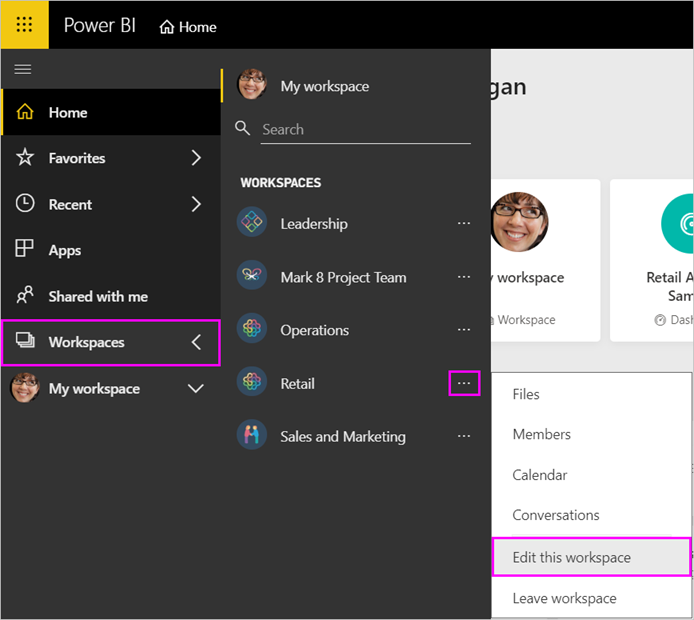
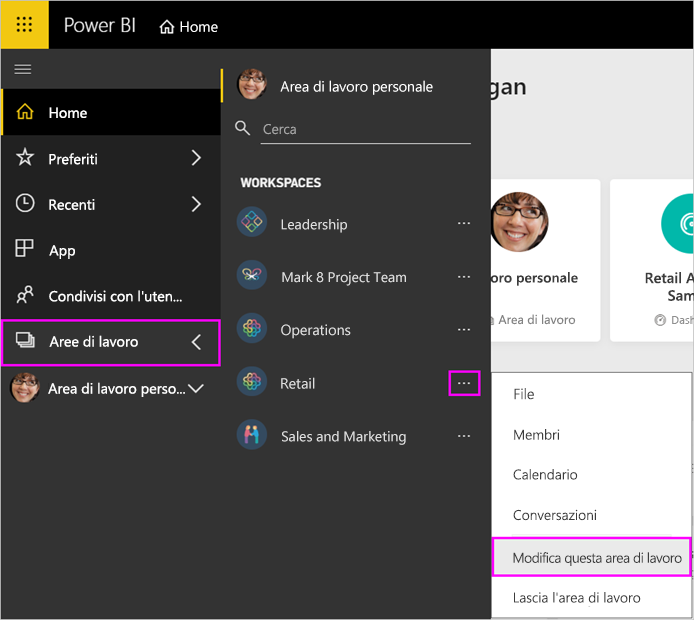
commit translated contents

diff --git a/powerbi-docs/paginated-reports/page-view.md b/powerbi-docs/paginated-reports/page-view.md
@@ -1,0 +1,62 @@
+---
+title: Impostare le visualizzazioni per i report impaginati - Power BI
+description: In questo articolo vengono illustrate le diverse visualizzazioni disponibili per i report impaginati nel servizio Power BI.
+author: maggiesMSFT
+ms.author: maggies
+ms.reviewer: ''
+ms.service: powerbi
+ms.subservice: ''
+ms.topic: conceptual
+ms.date: 05/14/2020
+ms.openlocfilehash: 3816cfe4e1b61b9445e16d7c322c5ba19aa2bc3d
+ms.sourcegitcommit: 21b06e49056c2f69a363d3a19337374baa84c83f
+ms.translationtype: HT
+ms.contentlocale: it-IT
+ms.lasthandoff: 05/15/2020
+ms.locfileid: "83407933"
+---
+# <a name="set-report-views-for-paginated-reports-in-the-power-bi-service"></a>Impostare le visualizzazioni per i report impaginati nel servizio Power BI
+
+Quando si esegue il rendering di un report impaginato nel servizio Power BI, la visualizzazione predefinita è basata su HTML e interattiva. Un'altra visualizzazione report per i formati di pagina fissa, ad esempio PDF, è la nuova opzione Visualizzazione pagina.
+
+**Visualizzazione interattiva predefinita**
+
+![Visualizzazione predefinita](media/page-view/power-bi-paginated-default-view.png)
+
+**Visualizzazione pagina**
+
+![Visualizzazione pagina](media/page-view/power-bi-paginated-page-view.png)
+
+In Visualizzazione pagina il report di cui viene eseguito il rendering è diverso rispetto alla visualizzazione predefinita. Alcune proprietà e concetti nei report impaginati si applicano solo alle pagine fisse. La visualizzazione è simile a quella di un report stampato o esportato. È comunque possibile modificare alcuni elementi, come i valori dei parametri, ma non sono disponibili altre funzionalità interattive, ad esempio l'ordinamento delle colonne e gli interruttori.
+
+Visualizzazione pagina supporta tutte le funzionalità supportate dal visualizzatore PDF del browser, ad esempio Zoom avanti, Zoom indietro e Adatta alla pagina.
+
+## <a name="switch-to-page-view"></a>Passare a Visualizzazione pagina
+
+Quando si apre un report impaginato, per impostazione predefinita ne viene eseguito il rendering in visualizzazione interattiva. Se il report include parametri, selezionare i parametri, quindi visualizzare il report.
+
+1. Selezionare **Visualizza** sulla barra degli strumenti > **Visualizzazione pagina**.
+
+    ![Passare a Visualizzazione pagina](media/page-view/power-bi-paginated-page-view-dropdown.png)
+
+2. Per modificare le impostazioni della visualizzazione pagina, scegliere **Impostazioni pagina** dal menu **Visualizza** sulla barra degli strumenti. 
+
+    ![Selezionare Impostazioni pagina](media/page-view/power-bi-paginated-page-settings-dropdown.png)
+    
+    La finestra di dialogo **Impostazioni pagina** contiene opzioni per impostare **Dimensioni pagina** e **Orientamento** per la visualizzazione pagina. Dopo aver applicato le impostazioni della pagina, le stesse opzioni vengono applicate quando si stampa la pagina in un secondo momento.
+   
+    ![Finestra di dialogo Impostazioni pagina](media/page-view/power-bi-paginated-page-settings-dialog.png)
+
+3. Per tornare alla visualizzazione interattiva, selezionare **Impostazione predefinita** nella casella a discesa **Visualizza**.
+
+## <a name="browser-support"></a>Supporto browser
+
+Visualizzazione pagina è supportata nei browser Google Chrome e Microsoft Edge. Assicurarsi che la visualizzazione di file PDF nel browser sia abilitata. Si tratta dell'impostazione predefinita per questi browser.
+
+Visualizzazione pagina non è supportata in Internet Explorer e in Safari, quindi l'opzione è disabilitata. Non è inoltre supportata nei browser dei dispositivi mobili o nelle app per dispositivi mobili Power BI native.  
+
+
+## <a name="next-steps"></a>Passaggi successivi
+
+- [Visualizzare un report impaginato nel servizio Power BI](../consumer/paginated-reports-view-power-bi-service.md)
+- [Che cosa sono i report impaginati in Power BI Premium?](paginated-reports-report-builder-power-bi.md)

diff --git a/powerbi-docs/admin/power-bi-cannot-sign-in.md b/powerbi-docs/admin/power-bi-cannot-sign-in.md
@@ -9,12 +9,12 @@ ms.subservice: powerbi-service
 ms.topic: conceptual
 ms.custom: ''
 ms.date: 03/12/2019
-ms.openlocfilehash: b65cf23e37773861d41b037b0f45c430224f1930
-ms.sourcegitcommit: bfc2baf862aade6873501566f13c744efdd146f3
+ms.openlocfilehash: ec9848f71aa8ba69089de5222dfa9f63703f43c5
+ms.sourcegitcommit: 6ba7cc9afaf91229f717374bc0c12f0b8201d15e
 ms.translationtype: HT
 ms.contentlocale: it-IT
-ms.lasthandoff: 05/13/2020
-ms.locfileid: "83129967"
+ms.lasthandoff: 05/16/2020
+ms.locfileid: "83438017"
 ---
 # <a name="troubleshooting-sign-in-issues-for-power-bi"></a>Risoluzione dei problemi di accesso per Power BI
 
@@ -26,7 +26,7 @@ Se invece si è un **amministratore tenant** dell'organizzazione e non si riesce
 
 Per prima cosa tentare di creare un ticket di supporto tramite la [pagina di supporto di Power BI](https://powerbi.microsoft.com/support/).
 
-Se non è possibile accedere alla pagina di supporto di Power BI, tentare di creare un ticket tramite la [pagina di supporto di Office 365](https://support.office.com/home/contact).
+Se non è possibile accedere alla pagina di supporto di Power BI, tentare di creare un ticket tramite la [pagina del supporto per Office](https://support.office.com/home/contact).
 
 Se non si è in grado di creare un ticket tramite una di queste pagine, provare a contattare il supporto tecnico tramite telefono:
 
@@ -34,7 +34,7 @@ Se non si è in grado di creare un ticket tramite una di queste pagine, provare 
 * Per i clienti in Europa, Medio Oriente e Asia (EMEA): + 44-844-800-2400
 * Per i clienti in India: + 1-800-419-5666
 
-Per contattare Microsoft e richiedere supporto, è anche possibile acquistare il [supporto tecnico Premier](https://support.microsoft.com/premier). Se l'organizzazione ha acquistato il supporto tecnico Premier e tuttavia non si riesce a creare un caso né tramite il canale di Power BI né tramite quello di Office 365, è possibile contattare il supporto tecnico Premier telefonicamente:
+Per contattare Microsoft e richiedere supporto, è anche possibile acquistare il [supporto tecnico Premier](https://support.microsoft.com/premier). Se l'organizzazione ha acquistato il supporto tecnico Microsoft Premier e tuttavia non si riesce a creare un caso né tramite il canale di Power BI né tramite il supporto di Office, è possibile contattare il supporto tecnico Premier telefonicamente:
 
 * Per i clienti negli Stati Uniti (US) e il resto delle Americhe: +1-800-936-3100
 * Per i clienti in Europa, Medio Oriente e Asia (EMEA): +44-844-800-8338

diff --git a/powerbi-docs/developer/visuals/visual-project-structure.md b/powerbi-docs/developer/visuals/visual-project-structure.md
@@ -8,12 +8,12 @@ ms.service: powerbi
 ms.topic: conceptual
 ms.subservice: powerbi-custom-visuals
 ms.date: 01/12/2020
-ms.openlocfilehash: 18267f06bd43166cb1958d3aff73913a31189953
-ms.sourcegitcommit: 7aa0136f93f88516f97ddd8031ccac5d07863b92
+ms.openlocfilehash: ce0f22c17ed718d3e2ad4e4fa9d9514edd315583
+ms.sourcegitcommit: 21b06e49056c2f69a363d3a19337374baa84c83f
 ms.translationtype: HT
 ms.contentlocale: it-IT
-ms.lasthandoff: 05/05/2020
-ms.locfileid: "80550752"
+ms.lasthandoff: 05/15/2020
+ms.locfileid: "83407421"
 ---
 # <a name="power-bi-visual-project-structure"></a>Struttura del progetto per un oggetto visivo di Power BI
 
